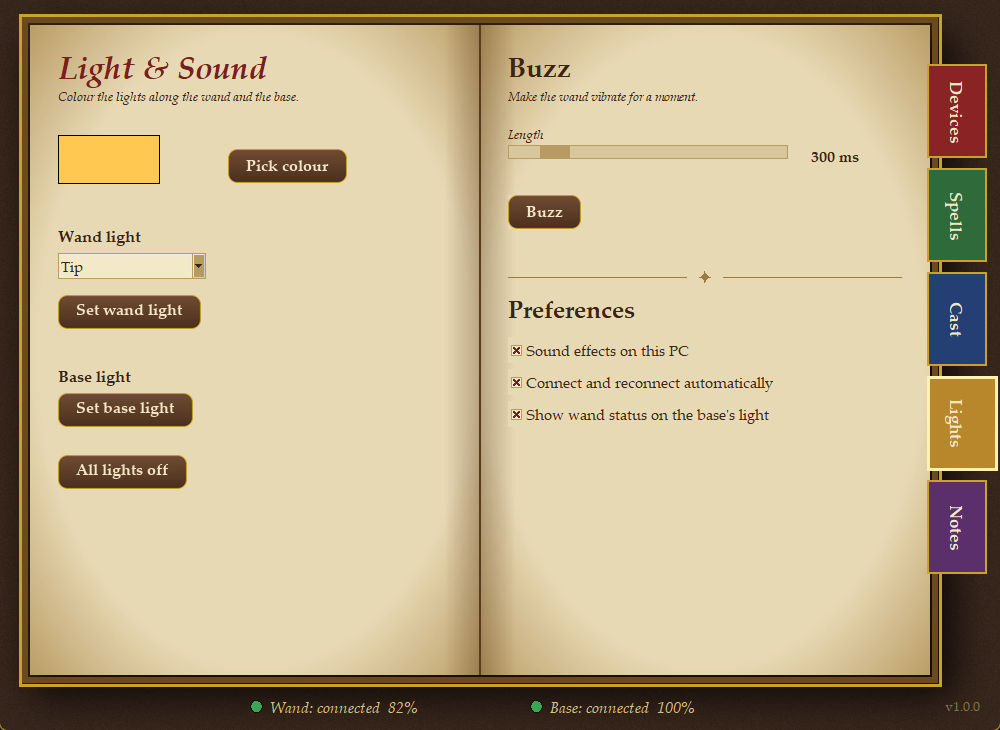
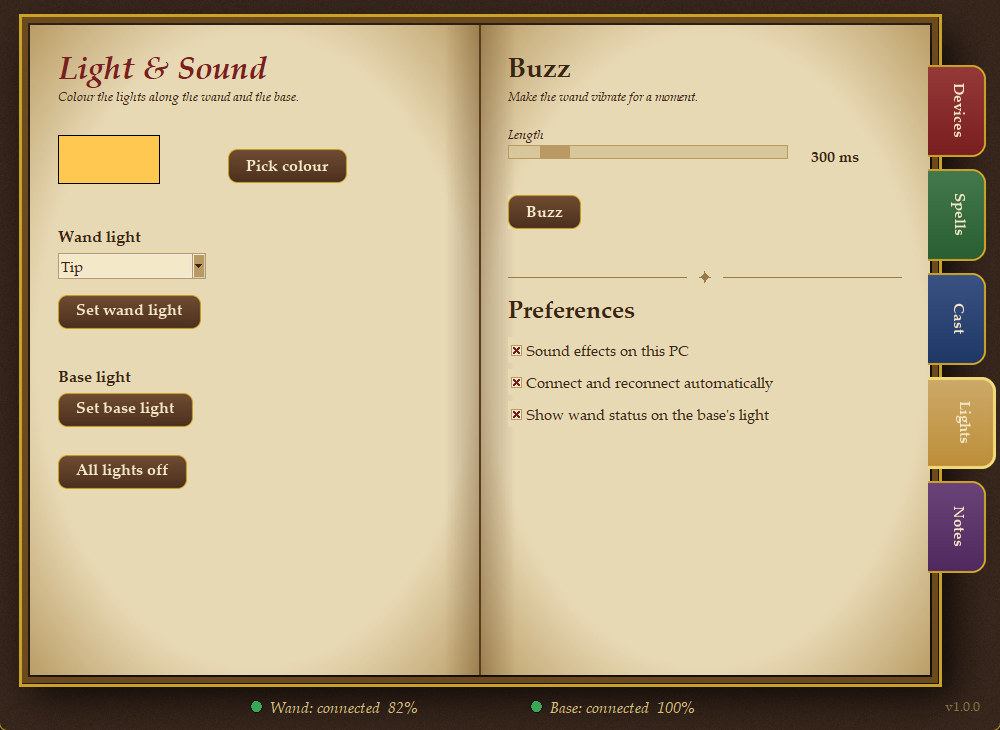
Rounded bookmark tabs with a clearer active and hover state

diff --git a/app.py b/app.py
@@ -19,7 +19,7 @@ from spells_data import (CAST_STEPS, DESCRIPTIONS, SPELLS, diagram_paths, pretty
                          spell_color, spell_effect)
 from ui_kit import (CARD, CARD_EDGE, FIELD, GOLD, INK, LEATHER, PARCH, PARCH_DARK, RED, SERIF, TEXT_ON_DARK,
                     RoundButton, Tip, apply_styles, battery_color, battery_percent, ink_image, make_leather,
-                    make_page, state_color, style_titlebar)
+                    make_page, state_color, style_titlebar, tab_pil)
 from version import __version__
 
 W, H = 1000, 730
@@ -217,23 +217,25 @@ class App(tk.Tk):
 
     # ---------- book chrome ----------
     def _draw_tabs(self):
-        self.tab_ids = {}
+        self.tab_ids, self.tab_imgs = {}, {}
         for i, (key, label, col) in enumerate(TABS):
             y = BY0 + 40 + i * 104
-            r = self.cv.create_rectangle(BX1 - 2, y, BX1 + 56, y + 92, fill=col, outline=GOLD, width=2,
-                                         tags=("tab", f"tab_{key}"))
-            t = self.cv.create_text(BX1 + 27, y + 46, text=label, fill=TEXT_ON_DARK, angle=270,
-                                    font=(SERIF, 13, "bold"), tags=("tab", f"tab_{key}"))
-            self.tab_ids[key] = (r, t, y, col)
+            for st in ("normal", "hover", "active"):
+                self.tab_imgs[(key, st)] = ImageTk.PhotoImage(tab_pil(label, col, st))
+            self.tab_ids[key] = self.cv.create_image(BX1 - 2, y, image=self.tab_imgs[(key, "normal")], anchor="nw",
+                                                     tags=("tab", f"tab_{key}"))
             self.cv.tag_bind(f"tab_{key}", "<Button-1>", lambda _e, k=key: self.show(k))
-            self.cv.tag_bind(f"tab_{key}", "<Enter>", lambda _e: self.cv.config(cursor="hand2"))
-            self.cv.tag_bind(f"tab_{key}", "<Leave>", lambda _e: self.cv.config(cursor=""))
+            self.cv.tag_bind(f"tab_{key}", "<Enter>", lambda _e, k=key: self._tab_hover(k, True))
+            self.cv.tag_bind(f"tab_{key}", "<Leave>", lambda _e, k=key: self._tab_hover(k, False))
+
+    def _tab_hover(self, key, on):
+        self.cv.config(cursor="hand2" if on else "")
+        if key != self.page:
+            self.cv.itemconfig(self.tab_ids[key], image=self.tab_imgs[(key, "hover" if on else "normal")])
 
     def _mark_tab(self, active):
-        for key, (r, _t, y, col) in self.tab_ids.items():
-            on = key == active
-            self.cv.coords(r, BX1 - 2, y, BX1 + (66 if on else 56), y + 92)
-            self.cv.itemconfig(r, outline="#fff2b0" if on else GOLD, width=3 if on else 2)
+        for key, item in self.tab_ids.items():
+            self.cv.itemconfig(item, image=self.tab_imgs[(key, "active" if key == active else "normal")])
 
     def clear(self):
         for w in self.widgets:

diff --git a/ui_kit.py b/ui_kit.py
@@ -92,6 +92,43 @@ def btn_image(text: str, state: str = "normal"):
     return _btn_cache[key]
 
 
+def _shade(hexcolor: str, f: float):
+    """Lighten (f>0) or darken (f<0) a #rrggbb colour; returns an (r, g, b) tuple."""
+    c = [int(hexcolor[i:i + 2], 16) for i in (1, 3, 5)]
+    return tuple(int(x + (255 - x) * f) if f >= 0 else int(x * (1 + f)) for x in c)
+
+
+def tab_pil(label: str, color: str, state: str = "normal", w: int = 58, h: int = 92) -> Image.Image:
+    """A bookmark tab: flush with the page on the left, rounded on the right, text running downward.
+
+    state: 'normal', 'hover' or 'active' (active is brighter, wider, with a lighter gold rim).
+    """
+    s, r = 3, 14
+    if state == "active":
+        w += 10
+    top, bot = {"normal": (_shade(color, .10), _shade(color, -.12)),
+                "hover": (_shade(color, .22), color and _shade(color, 0)),
+                "active": (_shade(color, .30), _shade(color, .06))}[state]
+    grad = Image.linear_gradient("L").resize((w * s, h * s))
+    fill = Image.composite(Image.new("RGB", (w * s, h * s), bot), Image.new("RGB", (w * s, h * s), top), grad)
+    shape = (-r * s - 4, 0, w * s - 1, h * s - 1)      # left corners sit off-canvas, so the left edge is square
+    mask = Image.new("L", (w * s, h * s), 0)
+    ImageDraw.Draw(mask).rounded_rectangle(shape, radius=r * s, fill=255)
+    im = Image.new("RGBA", (w * s, h * s), (0, 0, 0, 0))
+    im.paste(fill, (0, 0), mask)
+    rim = (240, 216, 120, 255) if state == "active" else (201, 162, 39, 255)
+    ImageDraw.Draw(im).rounded_rectangle(shape, radius=r * s, outline=rim, width=(3 if state == "active" else 2) * s)
+    im = im.resize((w, h), Image.LANCZOS)
+    f = pil_font(15, True)
+    bb = f.getbbox(label)
+    tw, th = bb[2] - bb[0], bb[3] - bb[1]
+    t = Image.new("RGBA", (tw + 4, th + 6), (0, 0, 0, 0))
+    ImageDraw.Draw(t).text((2 - bb[0], 3 - bb[1]), label, font=f, fill=(243, 230, 196, 255))
+    t = t.rotate(270, expand=True)
+    im.alpha_composite(t, ((w + 4 - t.width) // 2, (h - t.height) // 2))
+    return im
+
+
 class Tip:
     """Small hover tooltip."""
 

diff --git a/tests/test_ui_kit.py b/tests/test_ui_kit.py
@@ -39,3 +39,12 @@ def test_page_and_leather_sizes():
 def test_page_centre_matches_widget_background():
     px = U.make_page(450, 650, False).getpixel((225, 325))
     assert px == (0xe8, 0xd9, 0xb5)   # flat centre must equal PARCH so widgets blend in
+
+
+def test_tab_images():
+    n, h, a = (U.tab_pil("Cast", "#243f73", s) for s in ("normal", "hover", "active"))
+    assert n.size == (58, 92) and h.size == (58, 92) and a.size == (68, 92)   # active tab is wider
+    assert n.tobytes() != a.tobytes()
+    assert n.getpixel((0, 46))[3] == 255           # flush, square edge against the page
+    assert n.getpixel((n.width - 1, 0))[3] == 0    # outer top corner is rounded away
+    assert n.getpixel((n.width - 1, n.height - 1))[3] == 0
